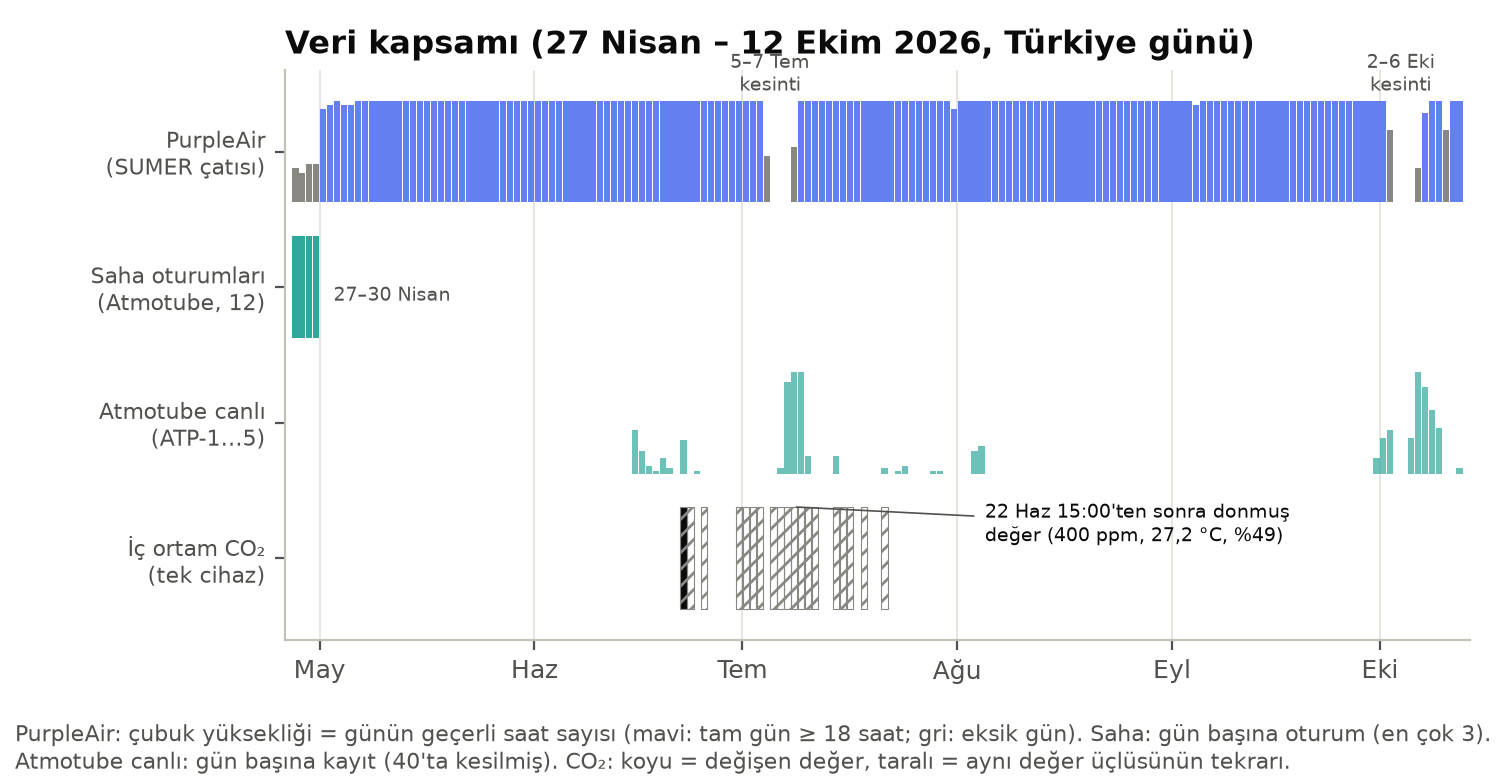
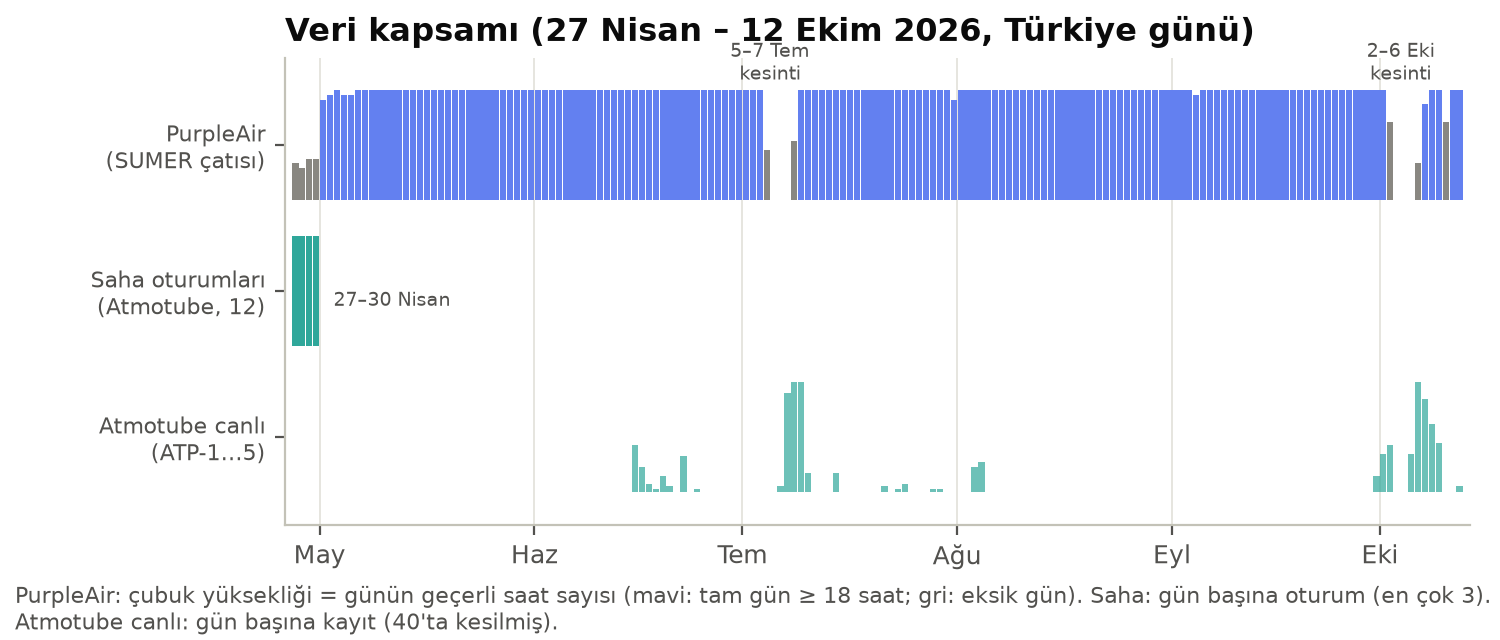
CO₂ şimdilik kapalı: uygulamada tek ayarla gizlendi, rapordan çıkarıldı
Kullanıcının kararı (13 Ekim 2026): CO₂ ölçümü alınmıyor. api.js → CO2_AKTIF = false
ile panel, harita işaretçisi, lejant, Özet çipi ve kesinti duyurusu gizlendi; veri
silinmedi, sensörler tanımlanınca true yapılacak. Kampüs maruziyet raporu 1.1:
CO₂ bölümleri ve Şekil 1'deki CO₂ satırı çıkarıldı.

Claude-Session: https://claude.ai/code/session_0123DQEKxbH6ozafm6AhvyPP

diff --git a/frontend_v2/index.html b/frontend_v2/index.html
@@ -245,6 +245,7 @@ body {
 /* Stats strip */
 .stats-strip { display: grid; grid-template-columns: repeat(3, 1fr); gap: 8px; }
 .stats-strip[hidden], .st-hint[hidden] { display: none; }
+.panel[hidden], .toggle-row[hidden] { display: none !important; }
 .stat-card {
   background: rgba(255,255,255,0.035);
   border: 1px solid var(--stroke);
@@ -1671,7 +1672,7 @@ body.research .exp-fab, body.exp-open .exp-fab { display: none; }
         <a href="#inf-sin">Sınırlılıklar</a><a href="#inf-kay">Kaynaklar</a><a href="#inf-kvkk">Gizlilik (KVKK)</a></nav>
 
       <h4 id="inf-hak">Hakkında</h4>
-      <p><b>GTÜ AirLab</b>, Gebze Teknik Üniversitesi kampüsünde partikül madde (PM₂.₅, PM₁₀) ve iç mekân CO₂ düzeylerini
+      <p><b>GTÜ AirLab</b>, Gebze Teknik Üniversitesi kampüsünde partikül madde (PM₂.₅, PM₁₀) düzeylerini
         ölçmek, haritalamak ve yorumlamak amacıyla yürütülen araştırmanın veri platformudur. Sabit sensörler, taşınabilir
         sensörlerle yapılan saha ölçümleri ve resmî bölge istasyonu verileri tek bir arayüzde birleştirilir.</p>
       <p>Varsayılan görünüm kampüsteki herkes için sadeleştirilmiştir (Özet, Harita, Sağlık, Duyurular). Sensörlerin ham
@@ -1681,7 +1682,7 @@ body.research .exp-fab, body.exp-open .exp-fab { display: none; }
       <table class="info-table"><thead><tr><th>Kaynak</th><th>Tür</th><th>Ölçülen</th></tr></thead><tbody>
         <tr><td>PurpleAir PA-II</td><td>Sabit, dış ortam (SUMER çatısı) · kampüsün genel hava kalitesi</td><td>PM₂.₅ (US EPA düzeltmeli), PM₁, PM₁₀, sıcaklık, nem</td></tr>
         <tr><td>Atmotube Pro</td><td>Taşınabilir, GPS'li saha ölçümleri · bina bazlı karakterizasyon</td><td>PM₁, PM₂.₅, PM₁₀, VOC</td></tr>
-        <tr><td>CO₂ sensörleri</td><td>Sabit, iç mekân</td><td>CO₂</td></tr>
+        <tr><td>CO₂ sensörleri</td><td>Sabit, iç mekân · şimdilik kapalı; sensörler yeniden tanımlanınca eklenecek</td><td>CO₂</td></tr>
         <tr><td>Tuzla istasyonu</td><td>Resmî referans (ÇŞB / İBB), ~6,4 km</td><td>PM₂.₅, PM₁₀ (saatlik)</td></tr>
       </tbody></table>
 
@@ -1884,12 +1885,12 @@ body.research .exp-fab, body.exp-open .exp-fab { display: none; }
 <div class="legend" id="legend"></div>
 
 <script src="js/colorscale.js?v=57"></script>
-<script src="js/api.js?v=43"></script>
+<script src="js/api.js?v=44"></script>
 <script src="js/campus.js?v=57"></script>
-<script src="js/app.js?v=62"></script>
+<script src="js/app.js?v=63"></script>
 <script src="js/who.js?v=48"></script>
 <script src="js/kiyas.js?v=43"></script>
-<script src="js/ozet.js?v=56"></script>
+<script src="js/ozet.js?v=57"></script>
 <script src="js/maruziyet.js?v=5"></script>
 <script src="js/shell.js?v=52"></script>
 </body>

diff --git a/frontend_v2/js/app.js b/frontend_v2/js/app.js
@@ -76,7 +76,11 @@ document.addEventListener("DOMContentLoaded", async () => {
     initPlayerUI();
     initChartDrawer();
 
-    document.getElementById("legend").innerHTML = buildLegend() + buildCO2Legend();
+    document.getElementById("legend").innerHTML = buildLegend() + (CO2_AKTIF ? buildCO2Legend() : "");
+    if (!CO2_AKTIF) {   // CO₂ kapalı: paneli ve harita seçeneğini gizle
+        document.querySelector('section.panel[data-key="co2"]')?.setAttribute("hidden", "");
+        document.getElementById("tg-co2")?.closest("label")?.setAttribute("hidden", "");
+    }
 
     // İlk yükleme: açılış ekranı en fazla 6 sn bekler. Ücretsiz sunucu uykudaysa uygulama yine açılır
     // (Özet, Tuzla verisini İBB'den doğrudan da alabilir); sunucu uyanınca veriler yüklenir ve Özet tazelenir.
@@ -95,8 +99,7 @@ document.addEventListener("DOMContentLoaded", async () => {
     setInterval(loadAtmotubeLive, 120000);
 
     // CO₂ sensörleri (Tuya, sabit) — 2 dk'da bir yenile
-    loadCO2Live();
-    setInterval(loadCO2Live, 120000);
+    if (CO2_AKTIF) { loadCO2Live(); setInterval(loadCO2Live, 120000); }
 
     // CSB ulusal istasyon (Tuzla) — 5 dk'da bir
     loadCSB();

diff --git a/frontend_v2/js/api.js b/frontend_v2/js/api.js
@@ -1,6 +1,10 @@
 // Backend API — Render production
 const API_BASE = "https://gtu-air-quality.onrender.com";
 
+// CO₂ (iç ortam) şimdilik kapalı (13 Ekim 2026, kullanıcının kararı): sensörler yeniden tanımlanınca true yap.
+// Kapalıyken panel, harita işaretçileri, lejant, Özet çipi ve kesinti duyurusu gösterilmez; sunucu verisi silinmez.
+const CO2_AKTIF = false;
+
 async function apiFetch(path, options = {}) {
     const res = await fetch(API_BASE + path, options);
     if (!res.ok) {
@@ -25,7 +29,7 @@ const API = {
     csbLatest:        () => apiFetch("/api/csb/latest"),
     purpleairStatus:  () => apiFetch("/api/purpleair/status"),
     atmotubeLive:     () => apiFetch("/api/atmotube/live"),
-    co2Live:          () => apiFetch("/api/co2/live"),
+    co2Live:          () => CO2_AKTIF ? apiFetch("/api/co2/live") : Promise.resolve({ data: [] }),
     atmotubeHistory:  (device, start, end) =>
         apiFetch(`/api/atmotube/history?device=${device}&start=${start}&end=${end}`),
     // Sunucu arşivi (CSV, zamanlar Türkiye saati): ör. source=ibb → Tuzla istasyonunun saatlik değerleri

diff --git a/frontend_v2/js/ozet.js b/frontend_v2/js/ozet.js
@@ -118,7 +118,7 @@ const Ozet = (() => {
             ${chip(paFresh, "PurpleAir", pa && pa.recorded_at ? (paFresh ? "canlı" : "son veri " + ago(pa.recorded_at)) : "veri yok")}
             ${chip(tzFresh, "Tuzla istasyonu", tz && tz.recorded_at ? (tzFresh ? "güncel" : "son veri " + ago(tz.recorded_at)) : "veri yok")}
             ${chip(atpOn > 0, "Atmotube", `${atpOn}/${(now.atp || []).length} çevrimiçi`)}
-            ${chip(co2On > 0, "CO₂ (iç mekân)", (now.co2 || []).length ? `${co2On}/${now.co2.length} çevrimiçi` : "tanımlı değil")}
+            ${CO2_AKTIF ? chip(co2On > 0, "CO₂ (iç mekân)", (now.co2 || []).length ? `${co2On}/${now.co2.length} çevrimiçi` : "tanımlı değil") : ""}
         </div>
         <button type="button" class="ic-btn oz-more oz-exp" id="oz-to-exp">${ico("message-circle")} AirLab asistanı: kampüste ne kadar PM₂.₅ soludum?</button>`;
         return html;

diff --git a/ajanlar/veri-analiz/raporlar/2026-10-13_kampus_maruziyet/betikler/a_envanter.py b/ajanlar/veri-analiz/raporlar/2026-10-13_kampus_maruziyet/betikler/a_envanter.py
@@ -66,10 +66,9 @@ def main(ham, cikti):
     S.ekle("G.co2_1000_ustu", int((c.co2_ppm > 1000).sum()), "kayıt", "1000 ppm'i aşan kayıt (veri donmuş olduğundan yorumlanamaz)", "Q3 co2")
 
     # ── Şekil 1: kapsam zaman çizelgesi ──
-    fig, ax = plt.subplots(figsize=(7.5, 3.9))
+    fig, ax = plt.subplots(figsize=(7.5, 3.2))
     gunler = pd.date_range("2026-04-27", "2026-10-12", freq="D", tz=veri.TZ)
-    satir = {"PurpleAir\n(SUMER çatısı)": 3.0, "Saha oturumları\n(Atmotube, 12)": 2.0, "Atmotube canlı\n(ATP-1…5)": 1.0,
-             "İç ortam CO₂\n(tek cihaz)": 0.0}
+    satir = {"PurpleAir\n(SUMER çatısı)": 3.0, "Saha oturumları\n(Atmotube, 12)": 2.0, "Atmotube canlı\n(ATP-1…5)": 1.0}
     # PurpleAir: günlük geçerli saat sayısı → çubuk yüksekliği
     for k, r in g.iterrows():
         x = pd.Timestamp(k, tz=veri.TZ)
@@ -82,14 +81,8 @@ def main(ham, cikti):
     for x, n in ag.items():
         ax.bar(x + pd.Timedelta("12h"), 0.75 * min(n, 40) / 40, bottom=1.0 - 0.375, width=0.9, color=DEVICE_COLOR["atmotube"],
                alpha=0.7, lw=0)
-    cg = c.groupby([c.tl.dt.floor("D"), donuk]).size().unstack(fill_value=0)
-    for x, r in cg.iterrows():
-        if r.get(False, 0):
-            ax.bar(x + pd.Timedelta("12h"), 0.75, bottom=-0.375, width=0.9, color=MUREKKEP, lw=0)
-        if r.get(True, 0):
-            ax.bar(x + pd.Timedelta("12h"), 0.75, bottom=-0.375, width=0.9, fc="none", ec=GRI, hatch="////", lw=0.4)
     ax.set_yticks(list(satir.values()), list(satir.keys()), fontsize=8)
-    ax.set_ylim(-0.6, 3.6)
+    ax.set_ylim(0.4, 3.6)
     ax.set_xlim(gunler[0] - pd.Timedelta("1D"), gunler[-1] + pd.Timedelta("2D"))
     ax.xaxis.set_major_locator(mdates.MonthLocator(tz=veri.TZ))
     ax.xaxis.set_major_formatter(FuncFormatter(lambda x, _: veri.AY_KISA.get(mdates.num2date(x, tz=veri.TZ).month, "")))
@@ -98,11 +91,8 @@ def main(ham, cikti):
     ax.text(pd.Timestamp("2026-07-05", tz=veri.TZ), 3.45, "5–7 Tem\nkesinti", fontsize=6.8, ha="center", color=IKINCIL)
     ax.text(pd.Timestamp("2026-10-04", tz=veri.TZ), 3.45, "2–6 Eki\nkesinti", fontsize=6.8, ha="center", color=IKINCIL)
     ax.text(pd.Timestamp("2026-05-03", tz=veri.TZ), 1.9, "27–30 Nisan", fontsize=6.8, ha="left", color=IKINCIL)
-    ax.annotate("22 Haz 15:00'ten sonra donmuş\ndeğer (400 ppm, 27,2 °C, %49)", xy=(pd.Timestamp("2026-07-08", tz=veri.TZ), 0.38),
-                xytext=(pd.Timestamp("2026-08-05", tz=veri.TZ), 0.25), fontsize=7, va="center", color=MUREKKEP,
-                arrowprops=dict(arrowstyle="-", color=IKINCIL, lw=0.6))
     kaynak_notu(fig, "PurpleAir: çubuk yüksekliği = günün geçerli saat sayısı (mavi: tam gün ≥ 18 saat; gri: eksik gün). Saha: gün başına oturum (en çok 3).\n"
-                     "Atmotube canlı: gün başına kayıt (40'ta kesilmiş). CO₂: koyu = değişen değer, taralı = aynı değer üçlüsünün tekrarı.")
+                     "Atmotube canlı: gün başına kayıt (40'ta kesilmiş).")
     fig.subplots_adjust(top=0.91, bottom=0.18, left=0.19, right=0.98)
     fig.savefig(os.path.join(cikti, "sekiller", "sekil01_kapsam.png"))
     plt.close(fig)

diff --git a/ajanlar/veri-analiz/raporlar/2026-10-13_kampus_maruziyet/rapor.md b/ajanlar/veri-analiz/raporlar/2026-10-13_kampus_maruziyet/rapor.md
@@ -1,8 +1,8 @@
 # GTÜ kampüsünde PM₂.₅: sorunlu zamanlar ve yerler, kişisel maruziyet ve iç/dış ortam senaryoları
 
-**Hazırlayan:** GTÜ AirLab · **Tarih:** 13 Ekim 2026 · **Sürüm:** 1.0
+**Hazırlayan:** GTÜ AirLab · **Tarih:** 13 Ekim 2026 · **Sürüm:** 1.1 (CO₂ çıkarıldı)
 **Veri dönemi:** PurpleAir 1 Mayıs – 12 Ekim 2026 (Türkiye saati; 13 Ekim 00:00'da kesildi); saha oturumları 27–30 Nisan 2026;
-Atmotube canlı kayıtları 15 Haziran – 12 Ekim 2026; iç ortam CO₂ 22 Haziran – 21 Temmuz 2026
+Atmotube canlı kayıtları 15 Haziran – 12 Ekim 2026
 **Sayıların kaydı:** her sayı `sayilar.json`'da değer, birim, hesap tarifi ve kaynak sorgusuyla yer alır (anahtarlar metinde köşeli
 parantezle verilmiştir, ör. [B.ort_mayis_eylul]). Şekiller ve sayılar `betikler/` ile yeniden üretilir (Ek A).
 
@@ -26,16 +26,14 @@ ancak çatı sensörüne oranla (K = 0,96) burada solunan havanın dış ortam d
 tipik bir hafta içi günde (5 Mayıs) 7 saat kapalı pencereli iç ortam ve 1 saat açık havada yürüme varsayımıyla zaman ağırlıklı
 ortalama 7,0 µg/m³, aynı sürenin tamamı dış ortamda geçseydi 12,3 µg/m³ olurdu (1,75 kat); solunan miktar 32,4 µg yerine 43,0 µg
 olurdu (1,33 kat). Açık havadaki tek saat, gerçekçi senaryodaki solunan miktarın %67'sini oluşturmaktadır; bu saatin sabah 06–09
-yerine akşamüstü 16–19 arasına alınması tipik günde yaklaşık %40 daha az PM₂.₅ solunması anlamına gelmektedir. **İç ortam CO₂**
-verisi 22 Haziran 15:01'den sonra donmuş değerlerden oluştuğu için (kayıtların %99,4'ü 400 ppm, sabit sıcaklık ve nemle) iç ortam
-göstergesi olarak kullanılamamıştır.
+yerine akşamüstü 16–19 arasına alınması tipik günde yaklaşık %40 daha az PM₂.₅ solunması anlamına gelmektedir.
 
 ---
 
 ## 1 Giriş
 
 GTÜ AirLab platformu kampüs hava kalitesini bir sabit sensörle (PurpleAir PA-II, SUMER çatısı), kişisel ölçerlerle (Atmotube PRO)
-ve iç ortam CO₂ sensörüyle izlemektedir. Bu rapor kullanıcının dört sorusunu yanıtlamayı amaçlar:
+izlemektedir. İç ortam CO₂ ölçümü şu an yapılmadığı için bu rapora alınmamıştır; sensörler yeniden tanımlandığında ayrıca incelenecektir. Bu rapor kullanıcının dört sorusunu yanıtlamayı amaçlar:
 
 1. Kampüste sorunlu alanlar: nerede, nasıl ve ne zaman kötü?
 2. Kişisel maruziyete göre bir sensörün gün içindeki en kötü durumdaki maruziyeti ne kadar?
@@ -59,14 +57,13 @@ değeriyle karşılaştırılmamış, Tuzla istasyonu yöntem kararlarının day
 | PurpleAir PA-II, SUMER çatısı (2 dk; US EPA düzeltmeli) | 1 Mayıs – 12 Ekim 2026 | 111.578 iki dakikalık kayıt; 3.751 geçerli saat; 165 takvim gününün 154'ü tam gün [A.pa_kayit_2dk, A.pa_saat, A.pa_tam_gun] | Ne zaman (1), en kötü durum (2), senaryolar (3) | Tek nokta ve çatı yüksekliği; 4–8 Temmuz ve 2–6 Ekim kesintileri; arşiv döneminde sıcaklık ve PM₁₀ büyük ölçüde yok |
 | Saha oturumları, Atmotube PRO (1–2 dk, GPS'li) | 27–30 Nisan 2026 | 12 oturum, 4.015 nokta, 3 ekip (her ekip 4 oturum) [A.saha_oturum, A.saha_nokta] | Nerede (1), ölçülen kişisel maruziyet (2) | Dört bahar günü; noktaların %87,8'i tek binada; cihaz kimliği ve kalibrasyonu belirsiz |
 | Atmotube canlı kayıtları (ATP-1…5) | 15 Haziran – 12 Ekim 2026 | 416 kayıt, 30 gün; PM₂.₅'li ve kampüs içi 299; PurpleAir'le eşleşen 233 [A.atp_kayit, D.atp_kampus, D.atp_esli] | Kişisel / dış ortam oranı (3) | Seyrek, telefonla eşitlenen anlık değerler; ortam (iç/dış) bilinmiyor |
-| İç ortam CO₂ (tek cihaz) | 22 Haziran – 21 Temmuz 2026 | 2.814 kayıt; yalnızca 16'sı değişken [G.co2_kayit, G.co2_degisken_kayit] | İç ortam göstergesi | 22 Haziran 15:01'den sonra donmuş değer (§3.6) |
 | Bina poligonları (`campus.geojson`) | — | 96 bina poligonu | Mekânsal eşleştirme | 20 bina adsız ya da genel adlı |
 
 ![Şekil 1](sekiller/sekil01_kapsam.png)
 
 **Şekil 1.** Veri kapsamı (27 Nisan – 12 Ekim 2026, Türkiye günü). PurpleAir satırında çubuk yüksekliği günün geçerli saat
 sayısıdır (mavi: tam gün). Saha satırı gün başına oturum sayısını, Atmotube canlı satırı gün başına kayıt sayısını (40'ta
-kesilmiş), CO₂ satırı değişen (koyu) ve tekrarlanan (taralı) kayıtları gösterir. Kaynak: Q1, Q2, Q3 (Ek A).
+kesilmiş). Kaynak: Q1, Q2, Q3 (Ek A).
 
 ### 2.2 PurpleAir verisinin işlenmesi
 
@@ -134,12 +131,6 @@ etkinlikler F = 1 ile hesaplanmıştır. Günler: 1 Mayıs – 12 Ekim arasında
 için F'nin belgedeki aralıkları (kapalı pencere 0,3–0,75; mekanik 0,25; açık pencere 0,8), bu çalışmada ölçülen K (Kimya binası
 0,65) ve IR'nin 95. yüzdelikleri (0,39 ve 2,28 m³/sa; U.S. EPA, 2011) kullanılmıştır. Açık hava saatinin etkisi için 06:00–09:00
 ve 16:00–19:00 pencere ortalamaları gün gün karşılaştırılmıştır.
-
-### 2.8 İç ortam (CO₂)
-
-Planlanan çözümleme saatlere göre dağılım ve 1000 ppm üstü süre payıydı. CO₂ bir kirletici değil havalandırma göstergesidir;
-ASHRAE standartları bir CO₂ sınırı içermez ve yaklaşık 1000–1200 ppm düzeyi esas olarak insan kaynaklı koku kabulüyle ilişkilidir
-(ASHRAE, 2022). Analizden önce kayıtların ölçüm niteliği denetlenmiş (aynı değer üçlüsünün tekrarı), sonuç §3.6'da verilmiştir.
 
 ---
 
@@ -415,21 +406,6 @@ temiz, tipik ve en kötü günde; (c) tipik günde F ve IR varsayımlarına duya
 (06–09) ve akşamüstü (16–19) pencere ortalamaları, her nokta bir gün. Kaynak: PurpleAir PA-II, US EPA düzeltmeli saatlik değerler;
 1 Mayıs – 12 Ekim 2026, 107 hafta içi tam gün; model `docs/maruziyet_yontemi.md`. Değerler yalnızca kampüste geçen süre içindir.
 
-### 3.6 İç ortam göstergesi (CO₂)
-
-İç ortam CO₂ verisi 22 Haziran 14:30 – 21 Temmuz 16:52 arasında 19 güne yayılan 2.814 kayıttan oluşmaktadır. Yalnızca ilk yarım
-saatteki 16 kayıt değişken değer taşımaktadır (450–753 ppm); 22 Haziran 15:01'den sonraki 2.798 kaydın tamamı aynı değer üçlüsünü
-(400 ppm, 27,2 °C, %49 bağıl nem) yinelemektedir ve 2.804 kayıt bir önceki kayıtla birebir aynıdır [G.co2_*]. Haftalar boyunca hiç
-değişmeyen sıcaklık ve nem gerçek bir ölçümle bağdaşmadığından bu kayıtlar, cihaz çevrimdışıyken toplayıcının bulut hizmetinin
-döndürdüğü son değeri her sorguda yeni zaman damgasıyla yazmasından kaynaklanıyor olmalıdır (`backend/tuya_co2.py` her kayda o anın
-saatini yazar; PurpleAir'deki "aynı son ölçümü yazma" denetiminin karşılığı yoktur). Bu nedenle saatlere göre CO₂ dağılımı ve
-1000 ppm üstü süre payı hesaplanamamıştır; 1000 ppm'i aşan kayıt bulunmaması (0) bir ölçüm sonucu değildir (Şekil 1).
-
-Nitel olarak: kalabalık ve az havalandırılan bir sınıfta CO₂'nin yükselmesi hava değişim hızının düşük olduğunu gösterir. Düşük
-hava değişimi dış ortam PM₂.₅'inin içeri geçişini azaltır (F küçülür), ancak tozun yeniden havalanması gibi iç kaynakların biriktiği
-durumlarda iç ortam düzeyi dış ortamı aşabilir (Chen ve Zhao, 2011). Uygulamanın modeli iç kaynakları içermediğinden, geçerli CO₂
-verisi elde edildiğinde F varsayımının hangi saatlerde iyimser kaldığı bu ilişki üzerinden tartışılabilir.
-
 ---
 
 ## 4 Tartışma
@@ -491,7 +467,6 @@ epizot günlerindeki 2–3 kat yüksek değerleri göstermediğini düşündürm
 8. **Senaryo modeli:** R = 1 alınmıştır; F literatür değerleridir, iç kaynaklar ve bina farkları dahil değildir; solunum hızları
    yetişkin ortalamalarıdır. Yalnızca hafta içi günler alınmış, resmî tatiller ayrılmamıştır. Sonuçlar kampüste geçen 8 saat içindir;
    WHO 24 saatlik değeriyle karşılaştırılmamıştır.
-9. **CO₂:** Verinin tamamına yakını donmuş değerdir; iç ortam sorusu yanıtlanamamıştır.
 
 ## 6 Sonuç ve öneriler
 
@@ -517,10 +492,8 @@ oranları (Kimya binasında yaklaşık 0,65, canlı kayıtlarda 0,75) bu senaryo
    ölçüm dilimine iç/dış ortam etiketi eklenmesi ve oturum başına hangi Atmotube cihazının kullanıldığının kaydedilmesi önerilir.
    Böylece G yerine doğrudan dış ortam sıcak noktaları (K) haritalanabilir.
 3. **Atmotube yan yana ölçümü** tamamlandığında K oranları cihaz çarpanıyla yeniden hesaplanmalıdır.
-4. **CO₂ toplayıcısı:** `backend/tuya_co2.py`'nin cihazın çevrimiçi durumunu ya da güncelleme zamanını denetlemesi ve aynı son
-   değeri yeniden yazmaması önerilir; 22 Haziran 15:01 – 21 Temmuz arasındaki kayıtların "donmuş" diye işaretlenmesi (silinmeden)
-   kullanıcı onayıyla değerlendirilebilir. Tuya planı yenilendiğinde iç ortam analizi tekrarlanabilir.
-5. **Uygulamanın maruziyet modeli için öneriler** (uygulama değiştirilmedi): P profilinin aya göre ayrılması (Ekim profili diğer
+
+4. **Uygulamanın maruziyet modeli için öneriler** (uygulama değiştirilmedi): P profilinin aya göre ayrılması (Ekim profili diğer
    aylardan belirgin farklıdır); ölçülen K değerinin (Kimya binası 0,65) bina özelinde F için bir dayanak olarak belgelenmesi;
    asistanın F ve IR aralıklarına göre bir sonuç aralığı göstermesi.
 
@@ -534,8 +507,6 @@ Doğrulama durumu: "uygulama belgesi" = künye ve değerler `docs/` belgelerinde
 
 - Afroz, R., Alonzo, J., Omar, S., Cheng, C., Schneider, S., Zhao, R. (2025). Impact of wildfire smoke PM2.5 on indoor air quality
   of public buildings on a university campus. *ACS ES&T Air*, 2, 625–636. https://doi.org/10.1021/acsestair.4c00342 — uygulama belgesi.
-- ASHRAE (2022; 2025'te güncellendi). *ASHRAE Position Document on Indoor Carbon Dioxide*. Atlanta: ASHRAE; ASHRAE Technical FAQ
-  (TC 4.3) — arama özeti (standartlarda CO₂ sınırı olmadığı; 1000–1200 ppm'in koku kabulüyle ilişkisi).
 - Barkjohn, K. K., Gantt, B., Clements, A. L. (2021). Development and application of a United States-wide correction for PM2.5 data
   collected with the PurpleAir sensor. *Atmospheric Measurement Techniques*, 14, 4617–4637. https://doi.org/10.5194/amt-14-4617-2021
   — uygulama belgesi (katsayılar ikincil).
@@ -574,7 +545,7 @@ Doğrulama durumu: "uygulama belgesi" = künye ve değerler `docs/` belgelerinde
 - **Sorgular:** `betikler/sorgular.sql` (Supabase `wgirpaysokuoygycmdst`, yalnızca SELECT): Q1 PurpleAir saatlik (sunucunun saatlik
   toplamasıyla aynı), Q2 saha noktaları (oturum adı yerine ad ön ekinin md5 özetinin 8 karakteri; betik bunu `app.js` → `PEOPLE` ile
   "Saha ekibi A/B/C"ye çevirir), Q3 günlük kayan ortalama tepeleri (düzeltme ve pencereler SQL'de), Atmotube canlı kayıtlarının
-  eş zamanlı PurpleAir değeri (koordinatsız) ve CO₂ kayıtları. Çıktılar olduğu gibi `Q1.txt`, `Q2.txt`, `Q3.txt` olarak bir klasöre
+  eş zamanlı PurpleAir değeri (koordinatsız) Çıktılar olduğu gibi `Q1.txt`, `Q2.txt`, `Q3.txt` olarak bir klasöre
   kaydedilir (bu klasör depoya konmaz; saha noktaları konum içerir).
 - **Ek girdiler (depoda):** `docs/veri/purpleair_229263_2dk_2026-04-27_2026-10-06.csv` (27–30 Nisan eşleştirmesi),
   `frontend_v2/data/campus.geojson`, `frontend_v2/js/app.js` (`PEOPLE`), `colorscale.js` ve `maruziyet.js` (sabitlerin denetimi).
@@ -582,7 +553,7 @@ Doğrulama durumu: "uygulama belgesi" = künye ve değerler `docs/` belgelerinde
   (yaklaşık 11 sn). Tek tek: `a_envanter.py` (Şekil 1, A.* ve G.*), `b_zaman.py` (Şekil 2–5, B.*), `c_mekan.py` (Şekil 6–7, C.*),
   `d_kisisel.py` (Şekil 8–9, D.*), `e_en_kotu.py` (Şekil 10, E.*), `f_senaryo.py` (Şekil 11, F.*). Betikler başta uygulamanın
   düzeltme katsayılarını, HKİ eşiklerini, F/IR değerlerini ve 15 m kuralını kaynak dosyalarla karşılaştırır; fark varsa durur.
-- **Bağımsız sayı denetimi (Ajan 1, 13 Ekim 2026):** tam gün sayısı ve ortalama, günlük döngü, en kötü %5 eşiği, 8–12 Ekim epizodu, günlük en kötü 60 dakika, Kimya binası payı, tipik gün senaryosu ve CO₂ donma bulgusu ayrı betiklerle yeniden hesaplanmış, sekizi de tutmuştur.
+- **Bağımsız sayı denetimi (Ajan 1, 13 Ekim 2026):** tam gün sayısı ve ortalama, günlük döngü, en kötü %5 eşiği, 8–12 Ekim epizodu, günlük en kötü 60 dakika, Kimya binası payı, tipik gün senaryosu ayrı betiklerle yeniden hesaplanmış, hepsi tutmuştur.
 - **Yapılan denetimler:** Python düzeltmesi uygulamanın `paCorrect` ve `hki` işlevleriyle (Node.js) 418 saat ve 17 sınır değerinde
   birebir aynıdır; SQL kayan ortalama tepeleri sensör arşivinden bağımsız hesaplamayla 152 günde en çok 0,03 µg/m³ farklıdır;
   Ajan 1'in Mayıs–Eylül sayıları (148 tam gün, 12,1 µg/m³, 38 aşım günü, aylık 13,4 / 12,1 / 11,2 / 13,9 / 9,8; 06:00'da 15,8,

diff --git a/CLAUDE.md b/CLAUDE.md
@@ -18,8 +18,10 @@ Tek bir güncel sürüm olması için **tek kaynak `main` branch'idir**.
 ## Bekleyen işler (oturum başında kullanıcıya kısaca hatırlat, bitenleri buradan sil)
 - **Tuzla resmî ÇŞB toplayıcısı Haziran 2026'dan beri çalışmıyor** (yerel bilgisayardaki zamanlanmış görev); Tuzla saatlik
   arşivi 6 Ekim 2026'dan beri sunucuda İBB'den toplanıyor (`collector.collect_hourly`).
-- **CO₂ sensörlerinden 21 Temmuz 2026'dan beri veri yok:** Tuya IoT Platform'daki bulut geliştirme planının süresi dolmuş;
-  kullanıcı Tuya'da planı yenilemeli/uzatmalı.
+- **CO₂ şimdilik kapalı (kullanıcının kararı, 13 Ekim 2026):** ölçüm alınmıyor; uygulamada `api.js` → `CO2_AKTIF = false`
+  (panel, harita, lejant, Özet çipi, kesinti duyurusu gizli; veri silinmedi) ve rapordan çıkarıldı. Sensörler yeniden tanımlanınca
+  `CO2_AKTIF = true` yap. Not: 22 Haziran 15:01'den sonraki 2 798 kayıt donmuş değer (toplayıcı çevrimdışı cihazın son değerini
+  yeniden yazıyor, `backend/tuya_co2.py`); yeniden açmadan önce toplayıcı düzeltilmeli.
 - **Tuzla PM₂.₅ geçmişi (kampüs–bölge karşılaştırması için):** İBB açık verisi Tuzla'nın PM₂.₅ geçmişini vermiyor,
   ÇŞB sitesi yalnızca Türkiye'den erişilebiliyor. **Masaüstü oturumunda** (kullanıcının Türkiye'deki bilgisayarı) çalıştır:
   `pip install requests && python scripts/csb_gecmis.py 2026-04-01`, sonra `frontend_v2/data/tuzla_saatlik.json`'u commit'leyip
